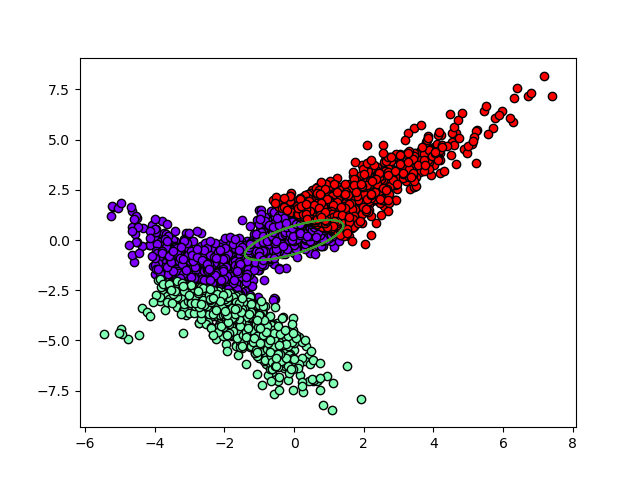
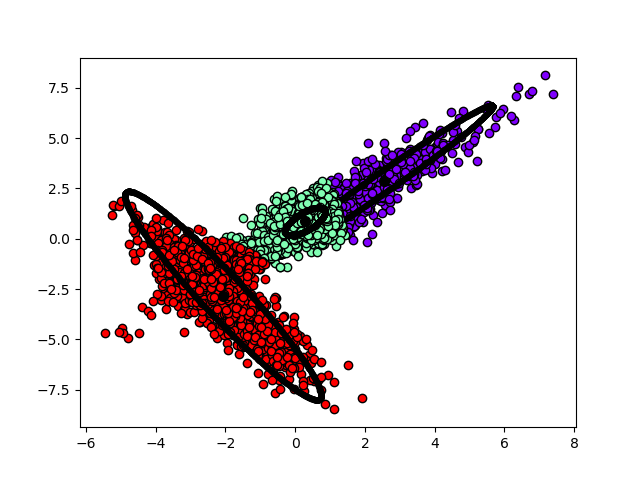
fixed plotting

diff --git a/Solutions/Homework5/ExpectationMaximization.py b/Solutions/Homework5/ExpectationMaximization.py
@@ -10,11 +10,11 @@ import random
 CHOOSE_INITIAL_CENTERS_RANDOMLY = True
 USE_DISTANCE_THRESHOLD = True
 MOVEMENT_THRESHOLD = 0.002
-DISTANCE_THRESHOLD = 6
+DISTANCE_THRESHOLD = 5
 
 VERBOSE = True
-PLOT_MEAN_FOR_CLUSTERS_COUNT = False
-PLOT_CLUSTERING_FOR_SOME_K = True
+PLOT_MEAN_FOR_CLUSTERS_COUNT = True
+PLOT_CLUSTERING_FOR_SOME_K = False
 SAVE_PLOTS = True
 
 
@@ -23,7 +23,9 @@ class ExpectationMaximization:
     def get_initial_centers_from_data_set(data, k):
         if CHOOSE_INITIAL_CENTERS_RANDOMLY:
             seed = random.randint(0, 1000)
-            random.seed(8)
+            random.seed(seed)
+            print('seed: {}'.format(seed))
+
             return np.array([x for x in random.choices(data, k=k)])
 
         min_point = data.min(0)
@@ -41,6 +43,7 @@ class ExpectationMaximization:
         self.sigma = None
         self.cluster_centers = None
         self.points_per_cluster = None
+        self.inv_covariances_per_cluster = []
         self.covariances_per_cluster = []
         self.cluster_indexes = None
         self.last_diff = None
@@ -52,10 +55,13 @@ class ExpectationMaximization:
 
     def cluster(self, data, k_clusters, max_iterations=30):
         self.data = data
+        self.mean_distance = None
+        self.last_diff = None
         self.k_clusters = k_clusters
         self.cluster_indexes = [x for x in range(self.k_clusters)]
         self.cluster_centers = ExpectationMaximization.get_initial_centers_from_data_set(data, k_clusters)
         self.covariances_per_cluster = [[np.identity(len(x))] for x in self.cluster_centers]
+        self.inv_covariances_per_cluster = self.covariances_per_cluster
         self.reset_points_per_cluster()
         self.max_iterations = max_iterations
         self.apply_expectation_maximization()
@@ -64,17 +70,26 @@ class ExpectationMaximization:
         if VERBOSE:
             print('iteration: {}'.format(k))
         old_centers = np.copy(self.cluster_centers)
-        old_distance = self.mean_distance
+        old_distance = np.copy(self.mean_distance)
         self.reset_points_per_cluster()
         self.assign_points_to_clusters()
         self.calculate_cluster_centers()
         self.calculate_covariances()
         self.update_mean_distance_to_cluster_centers()
 
+        # for some reason old_distance is None or old_distance > ...
+        # was throwing errors cannot compare NoneType with int
+        # therefore the less readable not old_distance :X
+
+        # but basically, if judging on distance for when to stop,
+        # if the average distance gets worse, we reach the max amount of iterations or we reach our desired
+        # threshold, stop
         if USE_DISTANCE_THRESHOLD:
             if (self.mean_distance > DISTANCE_THRESHOLD and
-                        k < self.max_iterations and (old_distance is None or old_distance > self.mean_distance)):
+                        k < self.max_iterations and (not old_distance or old_distance > self.mean_distance)):
                 self.apply_expectation_maximization(k + 1)
+
+        # other method to determine when to stop is by simply checking if the cluster centers still move enough
         elif abs((old_centers - self.cluster_centers).sum()) > MOVEMENT_THRESHOLD and k < self.max_iterations:
             self.apply_expectation_maximization(k + 1)
 
@@ -113,7 +128,7 @@ class ExpectationMaximization:
 
     def get_distance_mahalanobis_to_cluster(self, x, i_cluster):
         return (x - self.cluster_centers[i_cluster]).dot(
-            self.covariances_per_cluster[i_cluster]).dot((x - self.cluster_centers[i_cluster]).T)
+            self.inv_covariances_per_cluster[i_cluster]).dot((x - self.cluster_centers[i_cluster]).T)
 
     def calculate_cluster_centers(self):
         get_cluster_centers = np.vectorize(lambda x, points_per_center: points_per_center[x].mean(0),
@@ -123,13 +138,12 @@ class ExpectationMaximization:
     def calculate_covariances(self):
         # if we only have the center in our cluster (empty cluster) then just use the identity
         # matrix as covariance matrix again
-        get_covariances = np.vectorize(lambda x, points: np.linalg.pinv(np.cov(points[x],
-                                                                rowvar=False, bias=True)) if len(points[x]) > 1 else
+        get_covariances = np.vectorize(lambda x, points: np.cov(points[x],
+                                                                rowvar=False, bias=True) if len(points[x]) > 1 else
         np.identity(len(points[x][0])), signature='(),(m)->(n,n)')
         self.covariances_per_cluster = get_covariances(self.cluster_indexes, self.points_per_cluster)
-
-    def get_average_distance(self):
-        pass
+        self.inv_covariances_per_cluster = np.vectorize(lambda x: np.linalg.pinv(x),
+                                                        signature='(m,n)->(m,n)')(self.covariances_per_cluster)
 
 
 data = parse_data()
@@ -143,6 +157,7 @@ if PLOT_MEAN_FOR_CLUSTERS_COUNT:
 
     for cluster_count in cluster_count_experiments:
         em.cluster(data, cluster_count)
+        print(em.mean_distance)
         cluster_count_mean_distance_results.append(em.mean_distance)
 
         if VERBOSE:

diff --git a/Solutions/Homework5/Helpers.py b/Solutions/Homework5/Helpers.py
@@ -4,6 +4,8 @@ from numpy import pi, sin, cos
 import numpy as np
 import matplotlib.pyplot as plt
 
+RGB_BLACK = [0, 0, 0]
+
 
 def save_plot(fig, path):
     fig.savefig(os.path.join(os.path.dirname(__file__), path))
@@ -11,14 +13,20 @@ def save_plot(fig, path):
 
 def plot_covariance(ax1, x_initial, y_initial, cov):
     num_points = 1000
-    radius = 1.5
+    radius = 1.5  # adjusted radius, seems more correct this way
 
+    # plot a circle
     arcs = np.linspace(0, 2 * pi, num_points)
-    x = radius * sin(arcs) + x_initial
-    y = radius * cos(arcs) + y_initial
+    x = radius * sin(arcs)
+    y = radius * cos(arcs)
 
-    # TODO: save covariance and inverted covariance matrix separately
+    # stretch it according to the covariance matrix
     xy = np.array(list(zip(x, y)))
-    x, y = zip(*xy.dot(np.linalg.pinv(cov)))
+    x, y = zip(*xy.dot(cov))
 
-    ax1.plot(x, y)
+    # move it in the space so it's center is above the cluster's center
+    x = x + x_initial
+    y = y + y_initial
+
+    ax1.scatter(x, y, c=RGB_BLACK, s=10)  # plot covariance
+    ax1.scatter([x_initial], [y_initial], c=RGB_BLACK, s=50)  # plot center
